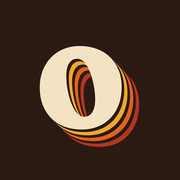
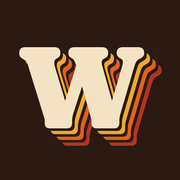
feat: OrrFM is now WORR
Every guest-facing name (page, admin booth, home-screen app name and icon, the
medals' rim, off-air messages, the hunt announcement, the About panel), the DJ's
station name, the QR card and the monitor page. The voice spells the call
letters out (names.toml: WORR = "W. O. R. R."), and make_breaks.py now uses
that spelling list. Unchanged on purpose: the queue's internal name (renaming it
would orphan the queue) and the user agents.

Claude-Session: https://claude.ai/code/session_01X8yHcR3L57vEwMuUGuuoVw

Changed region(s): [[0.0833, 0.25, 0.9167, 0.8333]]

diff --git a/worker/public/index.html b/worker/public/index.html
@@ -3,11 +3,11 @@
 <head>
 <meta charset="utf-8">
 <meta name="viewport" content="width=device-width, initial-scale=1, viewport-fit=cover">
-<title>OrrFM</title>
+<title>WORR</title>
 <meta name="theme-color" content="#2A1A12">
 <meta name="apple-mobile-web-app-capable" content="yes">
 <meta name="apple-mobile-web-app-status-bar-style" content="black-translucent">
-<meta name="apple-mobile-web-app-title" content="OrrFM">
+<meta name="apple-mobile-web-app-title" content="WORR">
 <link rel="apple-touch-icon" href="/icon-180.png">
 <link rel="icon" type="image/png" href="/icon-192.png">
 <link rel="preconnect" href="https://fonts.googleapis.com">
@@ -102,7 +102,7 @@
   .fx.beam { border-radius: 40%; background: repeating-linear-gradient(0deg, #ffffff22 0 1px, transparent 1px 3px),
              linear-gradient(90deg, #fff0, #ffe9c255 25%, #fffbecc0 50%, #ffe9c255 75%, #fff0); filter: blur(.4px); }
   .fx.mote { width: 2px; height: 2px; background: #fffbe8; box-shadow: 0 0 4px #ffd89a; }
-  /* same height as the OrrFM letters: their ink measures 0.71 of the font size at every width */
+  /* same height as the WORR letters: their ink measures 0.71 of the font size at every width */
   .hen { flex: none; width: calc(var(--logo) * 1.125); aspect-ratio: 1; border-radius: 50%; overflow: hidden;
          margin-top: calc(var(--logo) * -.08); }   /* top of the hen = top of the letters */
   .hen img { display: block; width: 100%; height: 100%; object-fit: cover; }
@@ -832,7 +832,7 @@
 <main>
   <header class="mark">
     <div class="mark-top">
-      <h1>OrrFM</h1>
+      <h1>WORR</h1>
       <picture class="hen"><source srcset="/hen.webp" type="image/webp"><img src="/hen.png" alt="" width="180" height="180"></picture>
     </div>
   </header>
@@ -977,7 +977,7 @@
   <section class="panel" id="find">
     <div class="h2row"><h2>Request a song</h2>
       <span class="slots" id="slots" role="img" aria-label="Song picks"><b class="ghost" title="Earn another quarter"></b><i></i><i></i></span></div>
-    <div class="closed-sign" aria-label="Closed: OrrFM is off the air"><b>CLOSED</b><span>OrrFM is off the air</span></div>
+    <div class="closed-sign" aria-label="Closed: WORR is off the air"><b>CLOSED</b><span>WORR is off the air</span></div>
     <p class="allow" id="songAllow" hidden></p>
     <input id="q" type="search" autocomplete="off" aria-label="Search for a song or artist" placeholder="Search a song or artist">
     <ul id="results"></ul>
@@ -1056,19 +1056,19 @@
     <div class="medals" id="medals" role="list" aria-label="Medals"></div>
   </section>
 
-  <footer class="made-by"><button id="aboutBtn" type="button" aria-label="Made by matty: how OrrFM was made">
+  <footer class="made-by"><button id="aboutBtn" type="button" aria-label="Made by matty: how WORR was made">
     <span>Made by</span><img src="/matty-sig.webp" alt=""></button></footer>
 </main>
-  <dialog class="sleeve-box about-box" id="about" aria-label="About OrrFM">
+  <dialog class="sleeve-box about-box" id="about" aria-label="About WORR">
     <div class="sleeve-bar" aria-hidden="true"></div>
     <button class="sleeve-close" id="aboutClose" type="button" aria-label="Close"><svg viewBox="0 0 24 24" aria-hidden="true"><path d="M6 6l12 12M18 6L6 18"/></svg></button>
     <article class="about">
       <img class="ab-sig" src="/matty-sig.webp" alt="matty">
-      <p class="ab-lede">OrrFM is a radio station made for one night: the Orr family reunion.</p>
+      <p class="ab-lede">WORR is a radio station made for one night: the Orr family reunion.</p>
       <h3>Who made it</h3>
       <p>Matt Williams (matty) builds websites and software. He works on two Arch Linux computers he built himself, set up exactly
         alike. He builds with an AI partner: Claude, made by Anthropic, working in a tool called Claude Code.</p>
-      <p>OrrFM came together over a few days and nights before the reunion.</p>
+      <p>WORR came together over a few days and nights before the reunion.</p>
       <h3>How a request travels</h3>
       <svg class="ab-flow" viewBox="0 0 320 508" role="img" aria-label="How a request travels: your phone, the queue in the cloud, the studio at home, the console by the speakers, the party">
   <defs><marker id="ar" viewBox="0 0 10 10" refX="8" refY="5" markerWidth="7" markerHeight="7" orient="auto"><path d="M0 0L10 5 0 10z" fill="#f0a92b"/></marker></defs>
@@ -1124,7 +1124,7 @@
         locked, or after it has sat untouched for a minute and a half.</p>
       <p>Bigger pieces follow a set routine: talk the idea through, write a short plan, then write each test before the code it
         checks.</p>
-      <p>Before the night, OrrFM sat through practice parties. The biggest ran for four hours: 31 pretend guests (careful ones,
+      <p>Before the night, WORR sat through practice parties. The biggest ran for four hours: 31 pretend guests (careful ones,
         button-mashers and baffled ones) plus three real web browsers tapping every button, all to find what breaks first.</p>
       <h3>The notebook: mathom and the four tiers</h3>
       <p>Matt keeps a notebook of hard-won lessons called mathom. The word comes from the hobbits: a mathom is something kept
@@ -1190,7 +1190,7 @@ function cleanTitle(t) {
     .replace(/\s*[(\[][^)\]]*(remaster|version|edit|mono|stereo|mix|single|live|from)[^)\]]*[)\]]/gi, "")
     .replace(/\s+-\s+.*(remaster|version|edit|mono|stereo).*$/i, "").trim();
 }
-// No cover anywhere (some SomaFM deep cuts aren't in any catalog): the OrrFM hen cover.
+// No cover anywhere (some SomaFM deep cuts aren't in any catalog): the WORR hen cover.
 function noCover(cls) { const img = el("img", cls); img.alt = ""; img.src = "/nocover.webp"; return img; }
 function art(src) {
   if (!src) return noCover();
@@ -1310,7 +1310,7 @@ flick(document.querySelector(".msg-screen"), (t) => t.closest(".lcd-line"));
 flick($("display"), (t) => t.closest(".vfd .t, .vfd .a"));
 function lcd(np) {
   if (offAir) {
-    const msg = "OrrFM is off the air. Requests open again when it's back.";
+    const msg = "WORR is off the air. Requests open again when it's back.";
     if (msg !== lcdKey) { lcdKey = msg; setLine("lcdMsg", msg, true, SCROLL_PX_S); }
     return;
   }
@@ -1510,7 +1510,7 @@ function dropEgg(layer, h) {
       .finished.then(() => egg.remove());
   }
 }
-// Three quick taps on the OrrFM logo: its colours roll back through the stack, like an old TV show's
+// Three quick taps on the WORR logo: its colours roll back through the stack, like an old TV show's
 // title card: each step moves every colour one layer outward (red to the face, cream to the first copy...);
 // twelve steps is three times round, ending on the cream face it started with.
 (() => {
@@ -2546,7 +2546,7 @@ $("presets").replaceChildren(...PRESETS.map(([ico, lbl], i) => {
       b.classList.add("down"); setTimeout(() => b.classList.remove("down"), 160);
       return;
     }
-    if (offAir) { toast("OrrFM is off the air."); return; }
+    if (offAir) { toast("WORR is off the air."); return; }
     if (padsOff) { toast("The buttons are off right now."); return; }
     const wait = padUntil - Date.now(), share = shareUntil - Date.now();
     if (wait > 0) { toast(`Your next sound in ${Math.ceil(wait / 1000)} s.`); return; }
@@ -3015,7 +3015,7 @@ const MEDAL = {
   snap: { name: "Snap!", metal: "silver", enamel: "#1f6e6a", field: "#134845", desc: "For breaking a priceless antique.", why: "A tube you tapped snapped off at the socket." },
   needle: { name: "Needle Breaker", metal: "bronze", enamel: "#e7d4ae", field: "#cdb591", desc: "For tuning a little too hard.", why: "You tapped the dial until the needle snapped." },
   static: { name: "Bad Connection", metal: "steel", enamel: "#4b3a78", field: "#2f2450", desc: "For services to television repair.", why: "You jiggled the loose plug and the screen fritzed." },
-  colors: { name: "Color Roll", metal: "gold", enamel: "#2a1a12", field: "#f3e3c3", desc: "For excellence in title cards.", why: "Three quick taps on the OrrFM logo rolled its colors." },
+  colors: { name: "Color Roll", metal: "gold", enamel: "#2a1a12", field: "#f3e3c3", desc: "For excellence in title cards.", why: "Three quick taps on the WORR logo rolled its colors." },
   screws: { name: "Loose Screws", metal: "steel", enamel: "#8a8f3c", field: "#5f6328", desc: "For having a few.", why: "You set all four screws spinning at once." },
   gnat: { name: "Gnat Whisperer", metal: "bronze", enamel: "#6f8f2e", field: "#4b6320", desc: "For finding life in an empty slot.", why: "A gnat flew out of an empty coin slot." },
   polish: { name: "Elbow Grease", metal: "gold", enamel: "#1d3b6e", field: "#132848", desc: "For a shine you could shave in.", why: "You rubbed the Orrdle sign until it gleamed." },
@@ -3036,7 +3036,7 @@ function medalFront(id) {
     <circle cx="60" cy="60" r="56" fill="none" stroke="${c}" stroke-width="2.4" stroke-dasharray="1.2 1.9" opacity=".7"/>
     <circle cx="60" cy="60" r="49" fill="${m.enamel}" stroke="${c}" stroke-width="2.5"/>
     <circle cx="60" cy="60" r="33" fill="${m.field}" stroke="${b}" stroke-width="2"/>
-    <text font-family="Georgia,serif" font-weight="700" font-size="7.4" letter-spacing=".9" fill="${ring}"><textPath href="#t" startOffset="50%" text-anchor="middle">OrrFM Scavenger Hunt</textPath></text>
+    <text font-family="Georgia,serif" font-weight="700" font-size="7.4" letter-spacing=".9" fill="${ring}"><textPath href="#t" startOffset="50%" text-anchor="middle">WORR Scavenger Hunt</textPath></text>
     ${[-26, -13, 0, 13, 26].map((d) => { const a = (90 + d) * Math.PI / 180, x = 60 + 41 * Math.cos(a), y = 60 + 41 * Math.sin(a);
       return `<path transform="translate(${x.toFixed(2)} ${y.toFixed(2)}) rotate(${d})" d="M0-3.3l.9 2.1 2.3.2-1.7 1.5.5 2.2L0 1.5l-2 1.2.5-2.2-1.7-1.5 2.3-.2z" fill="${ring}"/>`; }).join("")}
     <svg x="40" y="40" width="40" height="40" viewBox="${ICON_BOX[id]}" overflow="visible">${ICONS[id].replaceAll("INK", ink)}</svg>

diff --git a/worker/src/party.ts b/worker/src/party.ts
@@ -233,7 +233,7 @@ export class Party extends DurableObject<Env> {
 
   // ---------- guests ----------
   async submit(device: string, s: SubmitIn, asAdmin = false, ip = "") {
-    if (!asAdmin && this.flags().stationOff) return { ok: false, error: "OrrFM is off the air. Requests open again when it's back." };
+    if (!asAdmin && this.flags().stationOff) return { ok: false, error: "WORR is off the air. Requests open again when it's back." };
     if (!asAdmin && !this.flags().accepting) return { ok: false, error: "Requests are closed for tonight." };
     if (!asAdmin && this.one("SELECT 1 AS m FROM muted WHERE device=?", device))
       return { ok: false, error: "Requests are paused for this phone." };
@@ -342,7 +342,7 @@ export class Party extends DurableObject<Env> {
     const urgent = kind === "announcement" && j?.urgent === true;
     const anon = j?.anon === true;   // read on air as "a mystery guest"; the host still sees the name and phone
     if (anon && urgent) return { ok: false, error: "An urgent one can't be anonymous." };
-    if (this.flags().stationOff) return { ok: false, error: "OrrFM is off the air. Requests open again when it's back." };
+    if (this.flags().stationOff) return { ok: false, error: "WORR is off the air. Requests open again when it's back." };
     if (!this.flags().accepting) return { ok: false, error: "The DJ isn't taking jokes right now." };
     if (this.one("SELECT 1 AS m FROM muted WHERE device=?", device)) return { ok: false, error: "Requests are paused for this phone." };
     const n = await this.ensureName(device, j?.name);
@@ -485,7 +485,7 @@ export class Party extends DurableObject<Env> {
   async guestPad(device: string, pad: unknown) {
     const n = typeof pad === "number" ? pad : NaN;
     if (!Number.isInteger(n) || n < 1 || n > 8) return { ok: false, error: "No such button." };
-    if (this.flags().stationOff) return { ok: false, error: "OrrFM is off the air. Requests open again when it's back." };
+    if (this.flags().stationOff) return { ok: false, error: "WORR is off the air. Requests open again when it's back." };
     if (this.one("SELECT 1 AS m FROM muted WHERE device=?", device)) return { ok: false, error: "Requests are paused for this phone." };
     if (!this.flags().padGapS) return { ok: false, error: "The buttons are off right now." };
     if (!this.flags().freePlay) {
@@ -600,7 +600,7 @@ export class Party extends DurableObject<Env> {
       const id = "j" + this.newId().slice(1);
       this.sql.exec(`INSERT INTO jokes(id,device,name,text,status,created_at,kind,urgent,source)
         VALUES(?, 'host', 'the host', ?, 'pending', ?, 'announcement', 0, 'host')`, id,
-        `Stop the presses: ${who} is the first tonight to find every medal in the OrrFM scavenger hunt, and wins the golden quarter. A round of applause for our champion!`, Date.now());
+        `Stop the presses: ${who} is the first tonight to find every medal in the WORR scavenger hunt, and wins the golden quarter. A round of applause for our champion!`, Date.now());
     }
     return { ok: true, hunt: this.hunt(device) };
   }
@@ -922,7 +922,7 @@ export class Party extends DurableObject<Env> {
       muted,
       health: { ...h, ageS: h.at ? Math.round((Date.now() - h.at) / 1000) : null },
       serverNow: Date.now(),   // "N min ago" is worked out against this, not the phone's clock
-      code: "named-1",
+      code: "worr-1",
       party: { start: Number(this.setting("partyStart", "0")) || null, end: Number(this.setting("partyEnd", "0")) || null },         // read back after a deploy: proves the queue runs this code (no bump needed)
       settings: this.flags(),
       jokes: [...this.all("SELECT * FROM jokes WHERE status IN ('pending','preparing','ready') ORDER BY urgent DESC, kind='announcement' DESC, created_at"),

diff --git a/worker/public/admin.html b/worker/public/admin.html
@@ -5,7 +5,7 @@
 <meta name="viewport" content="width=device-width, initial-scale=1, viewport-fit=cover">
 <meta name="robots" content="noindex">
 <meta name="theme-color" content="#2A1A12">
-<title>OrrFM Booth</title>
+<title>WORR Booth</title>
 <link rel="preconnect" href="https://fonts.googleapis.com">
 <link href="https://fonts.googleapis.com/css2?family=Fraunces:opsz,wght,SOFT,WONK@9..144,600..900,100,1&family=Jost:wght@400;500;700&display=swap" rel="stylesheet">
 <style>
@@ -221,7 +221,7 @@
 <body>
 <main>
   <div class="top">
-    <h1>OrrFM Booth</h1>
+    <h1>WORR Booth</h1>
     <div class="status" id="status"></div>
   </div>
   <p id="auth" hidden>Open this page from your admin link.</p>
@@ -706,9 +706,9 @@ async function load() {
   catch (e) { if (e.message !== "auth") renderStale(); }
 }
 function renderStale() {   // the Worker can't be reached: don't let old data look live
-  if (!lastGood) { $("status").replaceChildren(dotted("var(--bad)", "Can't reach OrrFM")); return; }
+  if (!lastGood) { $("status").replaceChildren(dotted("var(--bad)", "Can't reach WORR")); return; }
   const ago = Math.round((Date.now() - lastGood) / 1000);
-  if (ago >= 10) $("status").replaceChildren(dotted("var(--bad)", `Can't reach OrrFM: showing data from ${ago}s ago`));
+  if (ago >= 10) $("status").replaceChildren(dotted("var(--bad)", `Can't reach WORR: showing data from ${ago}s ago`));
 }
 
 let skippedId = null, skippedAt = 0;   // the song a skip was sent for: Skip stays off until it changes (or 25 s pass)

diff --git a/worker/src/index.ts b/worker/src/index.ts
@@ -124,7 +124,7 @@ export default {
       const k = url.searchParams.get("k") ?? "";
       const start = same(k, env.PARTY_CODE) ? `/?k=${encodeURIComponent(k)}` : "/";
       return new Response(JSON.stringify({
-        name: "OrrFM", short_name: "OrrFM", start_url: start, scope: "/", display: "standalone",
+        name: "WORR", short_name: "WORR", start_url: start, scope: "/", display: "standalone",
         background_color: "#2A1A12", theme_color: "#2A1A12",
         icons: [{ src: "/icon-192.png", sizes: "192x192", type: "image/png" },
                 { src: "/icon-512.png", sizes: "512x512", type: "image/png", purpose: "any maskable" }],

diff --git a/studio/tests/test_djline.py b/studio/tests/test_djline.py
@@ -105,9 +105,9 @@ def test_fullwidth_brackets_cannot_close_the_tag():
 
 
 def test_station_name_is_one_setting():
-    assert djline.STATION == "OrrFM"
-    assert "OrrFM" in djline.SYSTEM and "MattyFM" not in djline.SYSTEM
-    assert "OrrFM" in djline.template(item()).script
+    assert djline.STATION == "WORR"
+    assert "WORR" in djline.SYSTEM and "MattyFM" not in djline.SYSTEM
+    assert "WORR" in djline.template(item()).script
 
 
 def test_prompt_rules_short_no_assumed_relationships_ends_with_artist_and_song():
@@ -123,7 +123,7 @@ def test_template_ends_with_artist_and_song():
 
 
 def test_backannounce_line_ends_with_the_new_song():
-    reply = json.dumps({"ok": True, "tone": "funny", "script": "That was Al Stewart. You're on OrrFM, here's America with Ventura Highway."})
+    reply = json.dumps({"ok": True, "tone": "funny", "script": "That was Al Stewart. You're on WORR, here's America with Ventura Highway."})
     client = FakeClient(reply)
     line = djline.backannounce({"artist": "Al Stewart", "title": "On The Border"},
                                {"artist": "America", "title": "Ventura Highway"}, client)
@@ -212,10 +212,10 @@ def test_prompt_says_the_requester_sends_the_song_not_receives_it():
 
 
 def test_backannounce_keeps_one_pause_cue_and_drops_other_tags():
-    reply = json.dumps({"script": "You're on OrrFM. [pause] [whispers] Here's America with Ventura Highway. [pause] [laughs]"})
+    reply = json.dumps({"script": "You're on WORR. [pause] [whispers] Here's America with Ventura Highway. [pause] [laughs]"})
     line = djline.backannounce(None, {"title": "Ventura Highway", "artist": "America"}, FakeClient(reply))
     assert line.script.count(djline.PAUSE) == 1 and "whispers" not in line.script and "laughs" not in line.script
-    assert djline.display(line.script) == "You're on OrrFM. Here's America with Ventura Highway."
+    assert djline.display(line.script) == "You're on WORR. Here's America with Ventura Highway."
 
 
 def test_backannounce_prompt_invites_an_occasional_pause():
@@ -297,7 +297,7 @@ def test_the_joke_and_announcement_writers_never_make_up_a_sender():
 
 
 def test_the_intro_writer_is_told_to_make_plain_sense():
-    # "a 2012 song, which for OrrFM is practically a new release, so enjoy the wait" went on air
+    # "a 2012 song, which for WORR is practically a new release, so enjoy the wait" went on air
     assert "plain sense" in djline.SYSTEM and "enjoy the wait" in djline.SYSTEM
 
 
@@ -345,8 +345,8 @@ def test_a_blend_must_keep_the_message():
     assert line and "outstanding in his field" in line.script and line.script.count("September") == 1
     lost = json.dumps({"ok": True, "tone": "funny", "script": "From Aunt Linda, a scarecrow joke. Here's September."})
     assert djline.blend_intro(item(), joke, FakeClient(lost)) is None   # the punchline went missing: no blend
-    over = djline.backannounce(None, {"title": "Ventura Highway", "artist": "America"}, FakeClient(json.dumps({"script": "You're on OrrFM. Here's America with Ventura Highway."})), message=joke)
+    over = djline.backannounce(None, {"title": "Ventura Highway", "artist": "America"}, FakeClient(json.dumps({"script": "You're on WORR. Here's America with Ventura Highway."})), message=joke)
     assert over.fallback   # the message didn't make it into the SomaFM line: the plain line, and the joke waits
-    client = FakeClient(json.dumps({"script": f"You're on OrrFM. {joke} Here's America with Ventura Highway."}))
+    client = FakeClient(json.dumps({"script": f"You're on WORR. {joke} Here's America with Ventura Highway."}))
     blended = djline.backannounce(None, {"title": "Ventura Highway", "artist": "America"}, client, message=joke)
     assert not blended.fallback and "<message>" in client.calls[0]["messages"][0]["content"]

diff --git a/tools/listen.py b/tools/listen.py
@@ -14,7 +14,7 @@ import threading
 import webbrowser
 
 PI, TAP_PORT, PORT = "192.168.86.31", 8043, 8045
-PAGE = b"""<!doctype html><html lang="en"><head><meta charset="utf-8"><title>OrrFM monitor</title>
+PAGE = b"""<!doctype html><html lang="en"><head><meta charset="utf-8"><title>WORR monitor</title>
 <meta name="viewport" content="width=device-width,initial-scale=1">
 <style>
   :root { color-scheme: dark; }
@@ -30,7 +30,7 @@ PAGE = b"""<!doctype html><html lang="en"><head><meta charset="utf-8"><title>Orr
   #msg { margin-top: 18px; min-height: 1.4em; font-size: .9rem; }
   input { width: 200px; margin-top: 18px; accent-color: #e2621b; }
 </style></head><body><main>
-<h1>OrrFM monitor</h1><p>What the party speakers are playing, a few seconds behind.</p>
+<h1>WORR monitor</h1><p>What the party speakers are playing, a few seconds behind.</p>
 <button id="b" type="button">Play</button>
 <div><input id="v" type="range" min="0" max="1" step="0.05" value="0.8" aria-label="Volume"></div>
 <div id="msg" role="status"></div>
@@ -105,7 +105,7 @@ class Handler(http.server.BaseHTTPRequestHandler):
 def main():
     srv = http.server.ThreadingHTTPServer(("127.0.0.1", PORT), Handler)
     url = f"http://127.0.0.1:{PORT}/"
-    print(f"OrrFM monitor: {url}  (Ctrl-C to stop)")
+    print(f"WORR monitor: {url}  (Ctrl-C to stop)")
     if "--no-open" not in sys.argv:
         webbrowser.open(url)
     srv.serve_forever()

diff --git a/studio/mattyfm/djline.py b/studio/mattyfm/djline.py
@@ -10,7 +10,7 @@ from dataclasses import dataclass
 MODEL = "claude-haiku-5-5"
 # The on-air name. One setting: change it here (or MATTYFM_STATION_NAME) for next year.
 log = logging.getLogger("mattyfm.djline")
-STATION = os.environ.get("MATTYFM_STATION_NAME", "OrrFM")
+STATION = os.environ.get("MATTYFM_STATION_NAME", "WORR")
 # Word stems that are never spoken on air. Checked per word after undoing common
 # disguises (look-alike characters, punctuation, spaced-out letters).
 DENY_STEMS = ("fuck", "shit", "cunt", "bitch", "whore", "slut", "retard", "nigg", "fag", "pussy", "pussi")
@@ -334,7 +334,7 @@ and every jab is about something real in the line: the song, the artist, the sta
 - Mention {STATION}.
 - Always end with the new song's artist and title, like: "...here's America with Ventura Highway."
 - Like a real DJ talking over the music, about one time in three put a single [pause] where \
-the music should breathe, such as right after the station name: "You're on OrrFM. [pause] Here's ..."
+the music should breathe, such as right after the station name: "You're on WORR. [pause] Here's ..."
 - If the songs say you're coming back from the guests' requests, say so the way a DJ would \
 ("that was ... for the family, now back to the seventies"), and name the song already playing \
 with "you're hearing" or "this is", never "here's": it started a while ago.

diff --git a/tools/qr_card.py b/tools/qr_card.py
@@ -13,9 +13,9 @@ load_env()
 url = f"https://fm.willms.co/?k={os.environ['PARTY_CODE']}"
 svg = segno.make(url, error="m").svg_inline(scale=8, dark="#2b1a0e")
 out = load().media_dir / "qr-card.html"
-out.write_text(f"""<!doctype html><meta charset="utf-8"><title>OrrFM card</title>
+out.write_text(f"""<!doctype html><meta charset="utf-8"><title>WORR card</title>
 <style>body{{font-family:Georgia,serif;text-align:center;color:#2b1a0e}}.card{{width:4in;height:6in;margin:.3in auto;
 border:6px solid #f2711c;border-radius:24px;padding:.3in}}h1{{font-size:44px;margin:.1em}}p{{font-size:20px}}</style>
-<div class="card"><h1>OrrFM</h1><p>Scan to request a song —<br>the DJ will read your shout-out!</p>{svg}
+<div class="card"><h1>WORR</h1><p>Scan to request a song —<br>the DJ will read your shout-out!</p>{svg}
 <p style="font-size:16px">{url.replace("https://", "")}</p></div>""")
 print(out)

diff --git a/tools/make_breaks.py b/tools/make_breaks.py
@@ -76,7 +76,8 @@ def main() -> None:
             index.append(old[f"{name}.mp3"])
             continue
         voice_raw, voice, fx = work / f"{name}-v.raw.mp3", work / f"{name}-v.mp3", work / f"{name}-fx.mp3"
-        engine = tts.speak(line, tone, voice_raw, http=http, aura=lambda t: b"", assets=cfg.media_dir / "assets", names={})
+        engine = tts.speak(line, tone, voice_raw, http=http, aura=lambda t: b"", assets=cfg.media_dir / "assets",
+                           names=tts.load_names(cfg.repo / "studio" / "names.toml"))   # WORR is spelled out, not "war"
         mix.prepare_voice(voice_raw, voice, cfg.sample_rate)
         sfx(sound, fx, 1.2 if kind == "skip" else 1.8)
         fx_s = mix.duration(fx)
